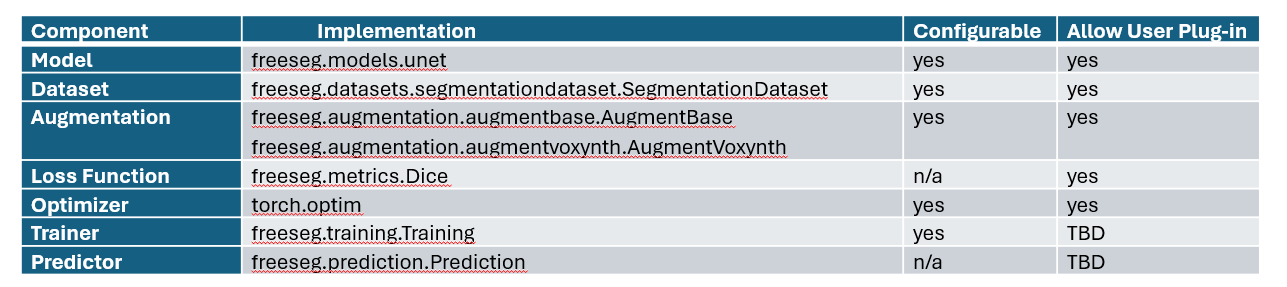
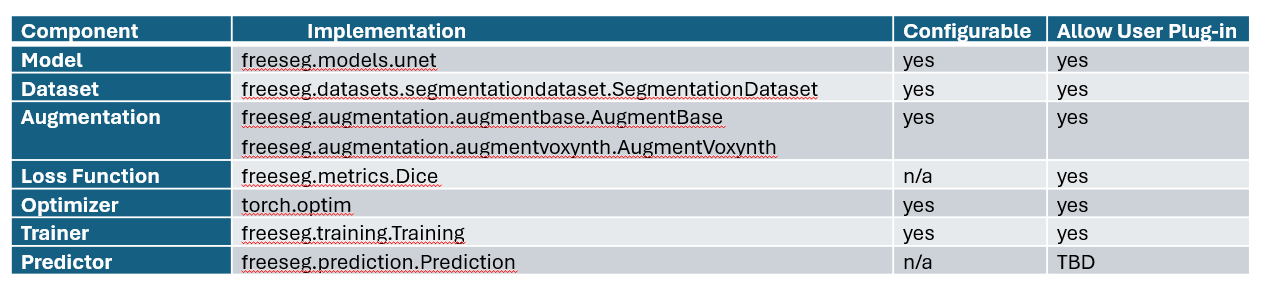
fix documentations

diff --git a/docs/ARCHITECTURE.md b/docs/ARCHITECTURE.md
@@ -12,7 +12,6 @@ This document describes the architecture and design of FreeSeg.
 - [Extension Points](#extension-points)
 - [Future Enhancements](#future-enhancements)
 - [References](#references)
-- [Module Structure](#module-structure)
 
 ---
 
@@ -33,6 +32,69 @@ FreeSeg is a PyTorch-based deep learning framework for medical image segmentatio
 \
 \
 ![system workflow diagram](figures/system_workflow.png)
+
+### Module Structure
+
+#### Core Modules
+
+```
+freeseg/
+  |-- __init__.py          # Package initialization
+  |-- config.py            # Configuration management
+  |-- training.py          # Training class
+  |-- prediction.py        # Prediction class
+  |-- evaluation.py        # Evaluation class
+  |-- checkpoint.py        # Checkpoint management
+  |-- metrics.py           # Loss functions and metrics
+  |-- filter.py            # Filtering utilities
+```
+
+#### Model Modules
+
+```
+freeseg/models/
+  |-- __init__.py
+  |-- unet.py              # U-Net architecture
+```
+
+#### Dataset Modules
+
+```
+freeseg/datasets/
+  |-- __init__.py
+  |-- segmentationdataset.py  # Segmentation dataset
+```
+
+#### Augmentation Modules
+
+```
+freeseg/augmentation/
+  |-- __init__.py
+  |-- augmentbase.py      # Base augmentation class
+  |-- augmentvoxynth.py   # Voxynth augmentation class
+```
+
+#### Utility Modules
+
+```
+freeseg/utils/
+  |-- __init__.py
+  |-- utility.py          # Utility functions
+```
+
+#### Voxynth Modules
+**Note**: Modified from Voxynth implementation https://github.com/dalcalab/voxynth/
+
+```
+freeseg/voxynth/
+  |-- __init__.py
+  |-- augment.py          # Voxynth augmentations
+  |-- filter.py           # Filtering
+  |-- noise.py            # Noise generation
+  |-- synth.py            # Synthesis
+  |-- transform.py        # Transformations
+  |-- utility.py          # Utilities
+```
 
 ### Design Principles
 
@@ -236,71 +298,6 @@ Output Segmentation
 - **With Priors**: Use prior information
 - **With Flipping**: Test-time augmentation
 - **Smooth Posteriors**: Gaussian smoothing
-
----
-
-## Module Structure
-
-### Core Modules
-
-```
-freeseg/
-  |-- __init__.py          # Package initialization
-  |-- config.py            # Configuration management
-  |-- training.py          # Training class
-  |-- prediction.py        # Prediction class
-  |-- evaluation.py        # Evaluation class
-  |-- checkpoint.py        # Checkpoint management
-  |-- metrics.py           # Loss functions and metrics
-  |-- filter.py            # Filtering utilities
-```
-
-### Model Modules
-
-```
-freeseg/models/
-  |-- __init__.py
-  |-- unet.py              # U-Net architecture
-```
-
-### Dataset Modules
-
-```
-freeseg/datasets/
-  |-- __init__.py
-  |-- segmentationdataset.py  # Segmentation dataset
-```
-
-### Augmentation Modules
-
-```
-freeseg/augmentation/
-  |-- __init__.py
-  |-- augmentbase.py      # Base augmentation class
-  |-- augmentvoxynth.py   # Voxynth augmentation class
-```
-
-### Utility Modules
-
-```
-freeseg/utils/
-  |-- __init__.py
-  |-- utility.py          # Utility functions
-```
-
-### Voxynth Modules
-**Note**: Modified from Voxynth implementation https://github.com/dalcalab/voxynth/
-
-```
-freeseg/voxynth/
-  |-- __init__.py
-  |-- augment.py          # Voxynth augmentations
-  |-- filter.py           # Filtering
-  |-- noise.py            # Noise generation
-  |-- synth.py            # Synthesis
-  |-- transform.py        # Transformations
-  |-- utility.py          # Utilities
-```
 
 ---
 

diff --git a/docs/TRAINING.md b/docs/TRAINING.md
@@ -9,9 +9,8 @@ This guide provides detailed information about training models with FreeSeg.
 - [Training Options](#training-options)
 - [Monitoring Training](#monitoring-training)
 - [Resuming Training](#resuming-training)
-- [Example Training Commands](#example_training_commands)
+- [Example Training Commands](#example-training-commands)
 - [Next Steps](#next-steps)
-- [Troubleshooting](#troubleshooting)
 
 ---
 
